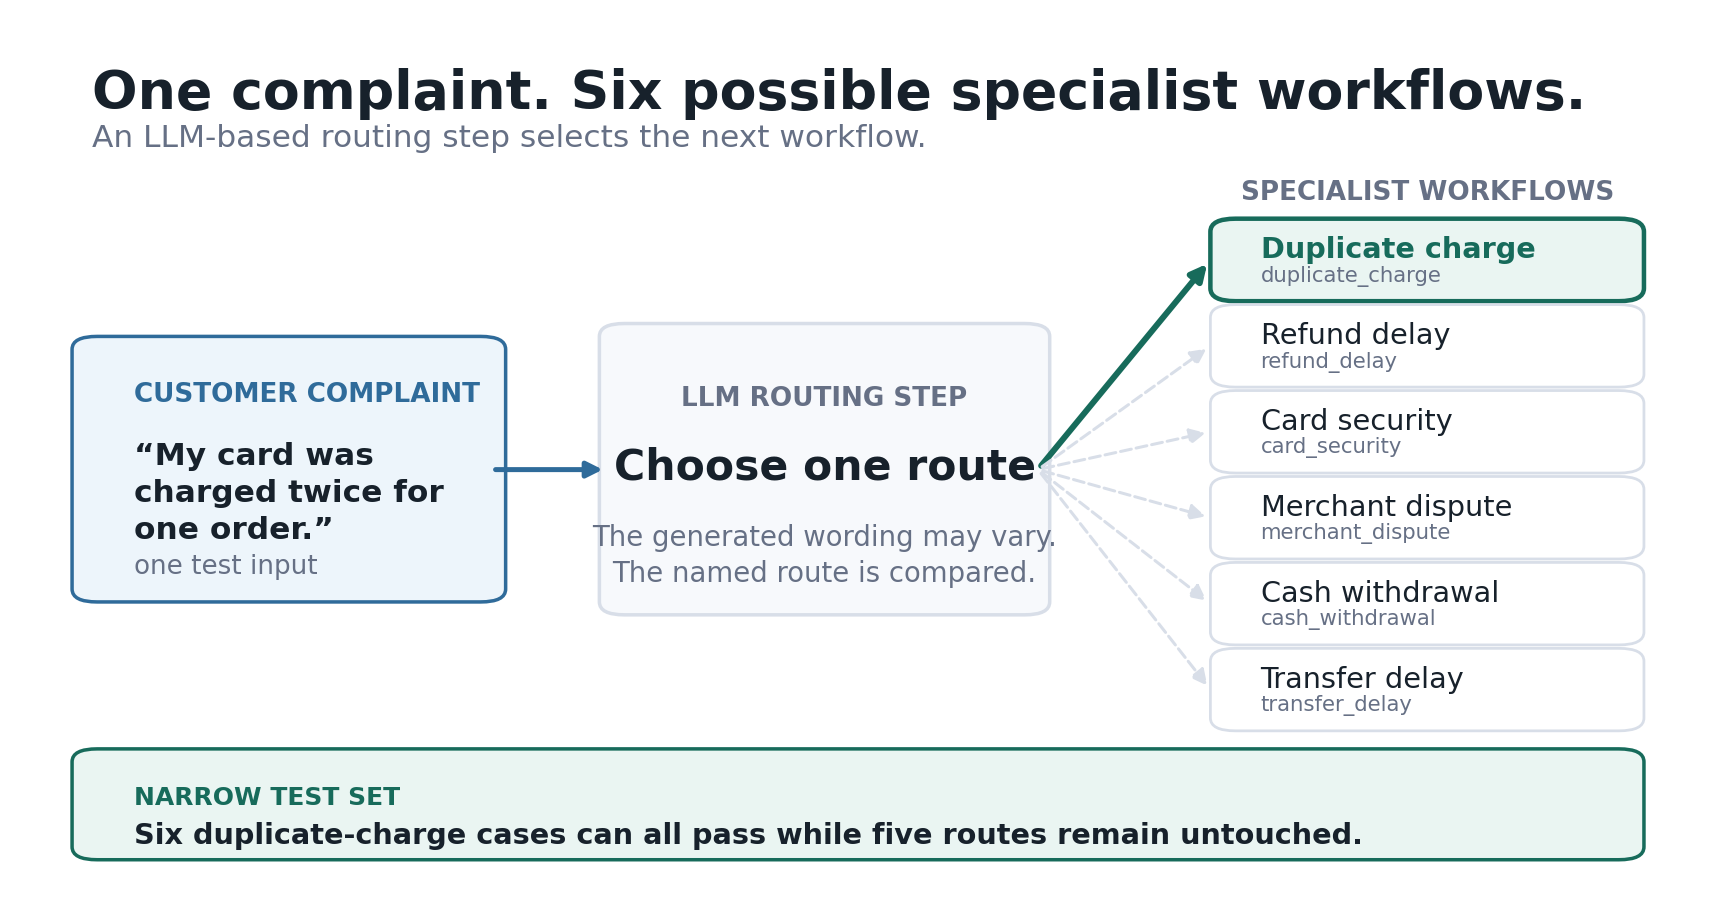
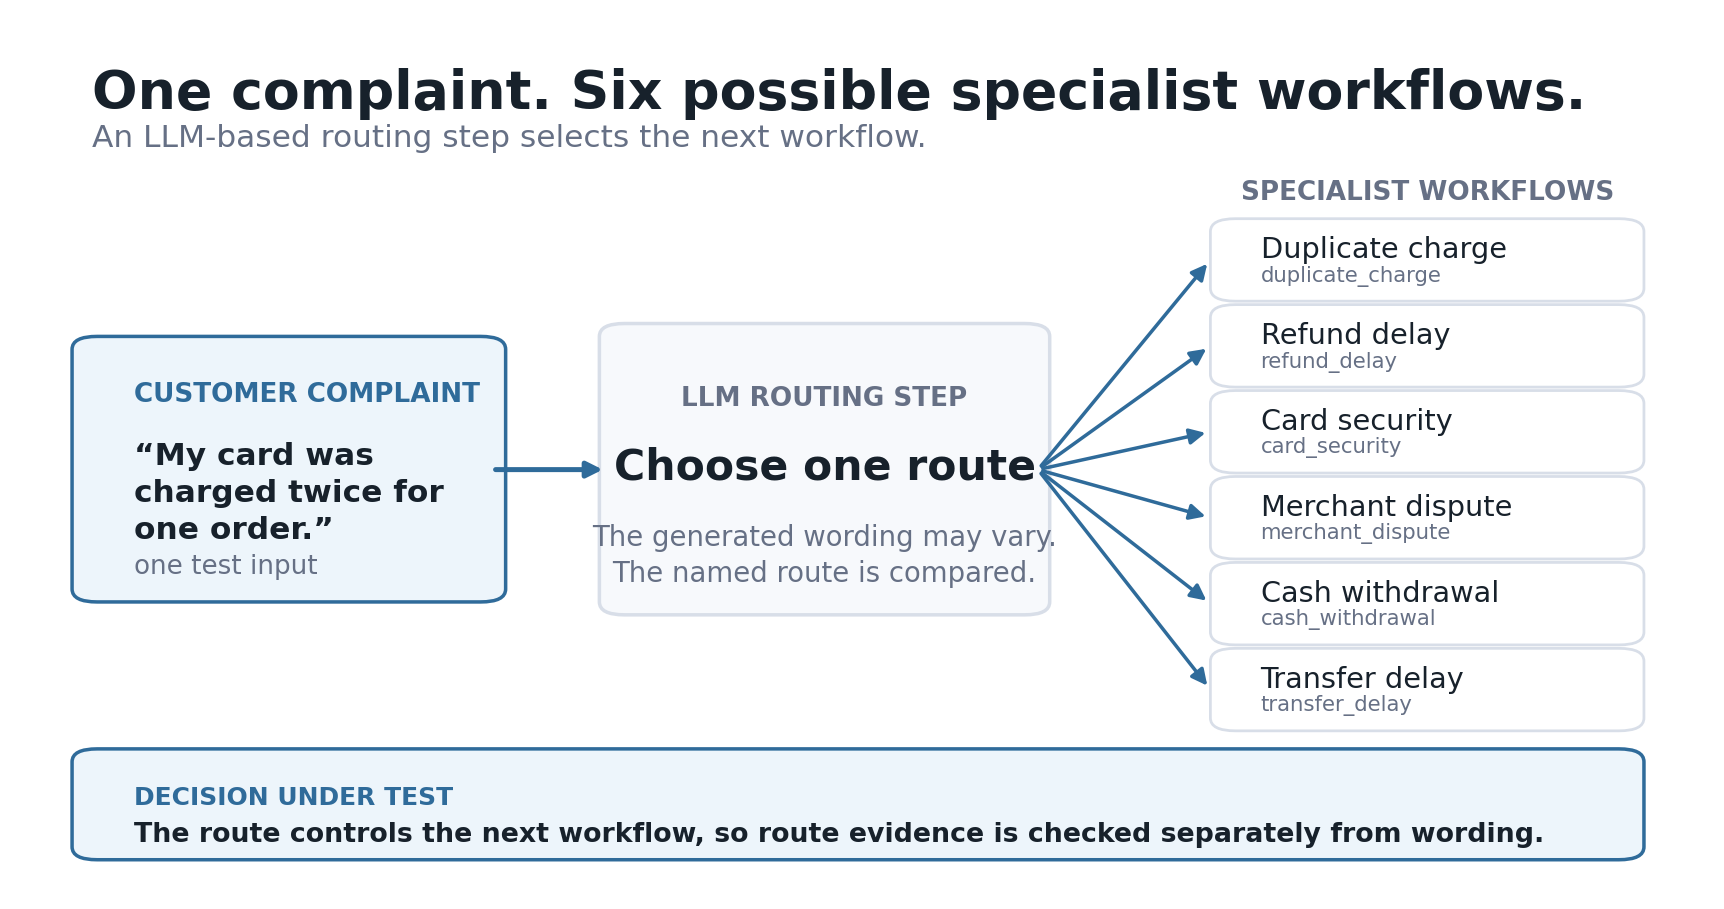
docs: refresh article evidence figures
Make the router overview neutral to suite composition and render the pooled-versus-route correction at publication resolution. Clarify that the Mermaid file records the semantic source while the PNG follows the article house style.

diff --git a/docs/assets/README.md b/docs/assets/README.md
@@ -22,7 +22,7 @@ the working copy needed to render a revision would be gone.
 
 | file | used by |
 |---|---|
-| `evidence-by-route.mmd` / `.png` | The article. Source of truth is the `.mmd`. |
+| `evidence-by-route.mmd` / `.png` | The article. The `.mmd` records the semantic source and the PNG follows the article house style. |
 | `agentcore-release-gate.svg` | This repository's README, directly. |
 | `agentcore-release-gate.png` | The article. Raster because Medium does not take SVG. |
 | `diagnostic-report.svg` | `docs/integrations.md`, directly. |
